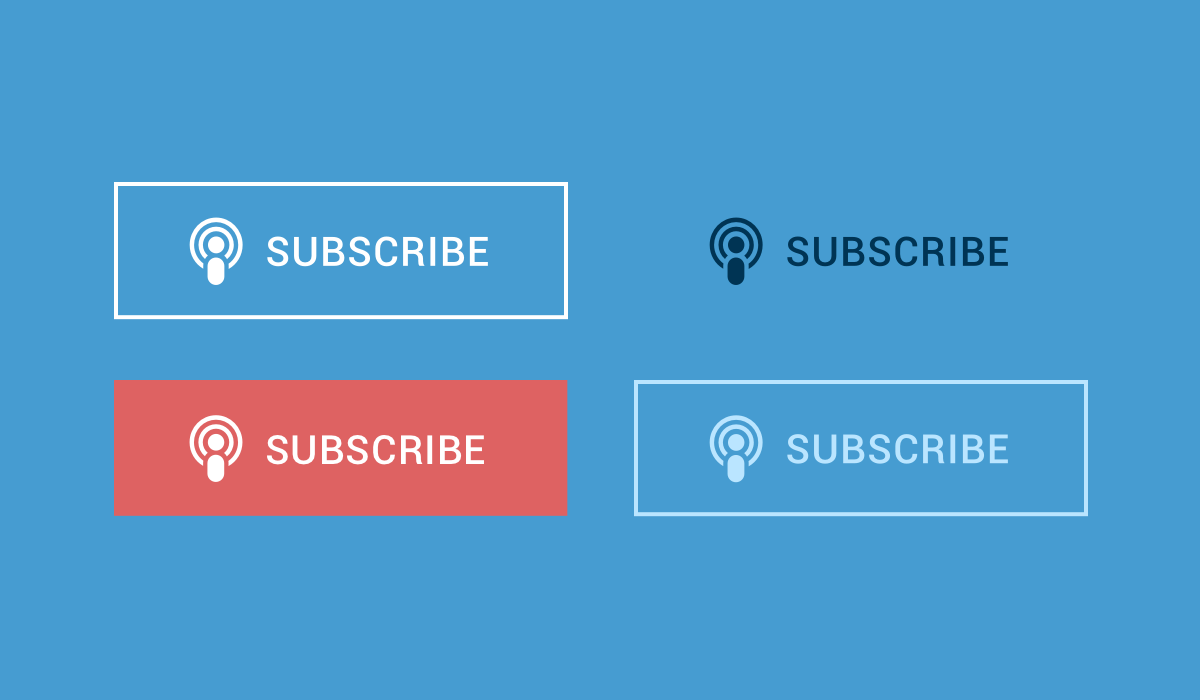
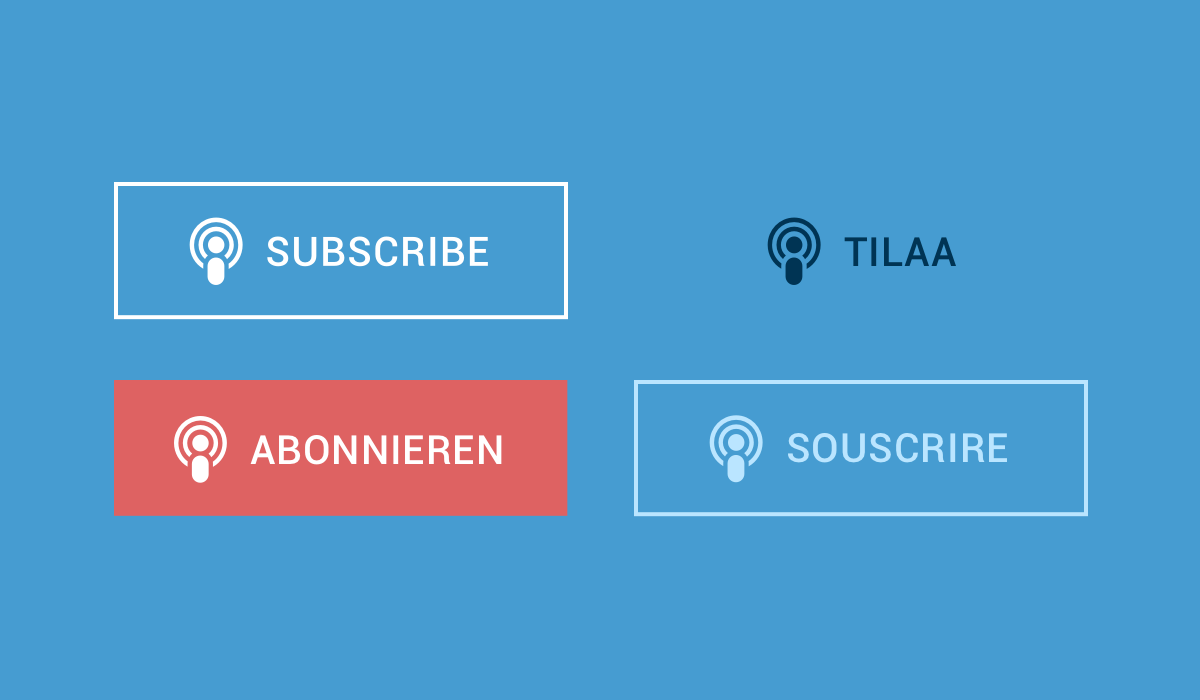
chore (hero): Add interaction symbols to the gif
- Change hero gif.

diff --git a/index.html b/index.html
@@ -1,3 +1,3 @@
 <!doctype html><html class="no-js" lang=""><head><meta charset="utf-8"><meta name="description" content=""><meta name="viewport" content="width=device-width,initial-scale=1"><title>PODLOVE_SUBSCRIBE_BUTTON_PAGE</title><link rel="apple-touch-icon" href="apple-touch-icon.png"><!-- Place favicon.ico in the root directory --><link rel="stylesheet" href="styles/main.css"><script src="scripts/vendor/modernizr.js"></script></head><body><!--[if lt IE 10]>
       <p class="browserupgrade">You are using an <strong>outdated</strong> browser. Please <a href="http://browsehappy.com/">upgrade your browser</a> to improve your experience.</p>
-    <![endif]--><section class="hero"><div class="hero__content"><div class="hero__device-wrapper"><div class="hero__device"><div class="hero__device__inner hero__device__container"></div><div class="hero__device__inner hero__device__gif"></div></div></div><div class="hero__text-wrapper"><div class="hero__text"><h1 class="headline headline--2 hero__headline">PODLOVE SUBSCRIBE BUTTON</h1><h2 class="hero__teaser">A universal and easy-to-use button, to subscribe to podcasts<br>with player clients or website players.</h2><a href="" class="btn btn--light hero__btn">Download at GitHub</a></div></div></div></section><section class="benefits"><ul class="benefits__list"><li class="benefits__list__item"><h2 class="benefits__headline headline headline--5">Your podcast:<br>easy to access.</h2><p class="benefits__copy">Automatic downloads make podcast content easy to access and flexible to use. With them you create an <span class="typo-bold">important bond between your podcast and your audience</span>.</p></li><li class="benefits__list__item"><h2 class="benefits__headline headline headline--5">Selecting your podcast feed: a no-brainer</h2><p class="benefits__copy">The PODLOVE SUBSCRIBE BUTTON makes selecting your podcast feed and passing it along to <span class="typo-bold">your listener's favourite podcast app</span> incredible simple.</p></li><li class="benefits__list__item"><h2 class="benefits__headline headline headline--5">Subscribing to your podcast in just 2 steps</h2><p class="benefits__copy"><span class="typo-bold">More and happier listeners:</span> To subscribe, your audience just clicks the PODLOVE SUBSCRIBE BUTTON, selects an app and there is (usually) no step three.</p></li></ul></section><section class="features"><h2 class="headline headline--2">One button to subscribe them all</h2><ul class="features__list"><li class="features__list__item"><figure class="features__figure"><img class="features__figure__image" src="images/screenshot_1.png" alt=""><figcaption class="features__figure__caption">Several integrated clients</figcaption></figure></li><li class="features__list__item"><figure class="features__figure"><img class="features__figure__image" src="images/artboard_1.png" alt=""><figcaption class="features__figure__caption">Smart color config</figcaption></figure></li><li class="features__list__item"><figure class="features__figure"><img class="features__figure__image" src="images/artboard_2.png" alt=""><figcaption class="features__figure__caption">Multiple styles: outline, filled, frameless</figcaption></figure></li><li class="features__list__item"><figure class="features__figure"><img class="features__figure__image" src="images/screenshot_4.png" alt=""><figcaption class="features__figure__caption">Integrate your a cover and use your own button</figcaption></figure></li><li class="features__list__item"><figure class="features__figure"><img class="features__figure__image" src="images/screenshot_3.png" alt=""><figcaption class="features__figure__caption">Multiple sizes: small, medium, big</figcaption></figure></li><li class="features__list__item"><figure class="features__figure"><img class="features__figure__image" src="images/artboard_3.png" alt=""><figcaption class="features__figure__caption">Multiple formats: standard, cube, auto-width</figcaption></figure></li><li class="features__list__item"><figure class="features__figure"><img class="features__figure__image" src="images/artboard_4.png" alt=""><figcaption class="features__figure__caption">Easy configuration</figcaption></figure></li><li class="features__list__item"><figure class="features__figure"><img class="features__figure__image" src="images/screenshot_2.png" alt=""><figcaption class="features__figure__caption">Works on desktop, mobile or in the cloud</figcaption></figure></li></ul></section><section class="cta"><div class="cta__wrapper"><h2 class="headline headline--2 cta__headline">Give it a try, it’s free!</h2><a href="" class="btn btn--light cta__btn">Download at GitHub</a></div></section><section class="live"><h2 class="headline headline--2">Test it!</h2><div class="live__container"><div class="live__input"><p class="live__label">Size:</p><form><input type="radio" name="size" value="small"> Small<br><input type="radio" name="size" value="medium"> Medium<br><input type="radio" name="size" value="big" checked="checked"> Big</form></div><div class="live__input"><p class="live__label">Format:</p><form><input type="radio" name="format" value="rectangle"> Rectangle<br><input type="radio" name="format" value="square"> Square<br><input type="radio" name="format" value="cover" checked="checked"> Cover</form></div><div class="live__input"><p class="live__label">Style:</p><form><input type="radio" name="style" value="filled" checked="checked"> Filled<br><input type="radio" name="style" value="outline"> Outline<br><input type="radio" name="style" value="frameless"> Frameless</form></div><div class="live__input"><p class="live__label live__label--small-bottom">Color:</p><form><input type="color" name="color" id="color" value="#469cd1"></form><p class="live__label live__label--small-bottom live__label--big-top">Language:</p><form><select class="live__select" name="language" id="language"><!--<option class="live__select__option" value="zh">Chinese</option>--><option class="live__select__option" value="nl">Dutch</option><option class="live__select__option" value="en" selected="selected">English</option><option class="live__select__option" value="eo">Esperanto</option><option class="live__select__option" value="de">German</option><option class="live__select__option" value="fi">Finnish</option><option class="live__select__option" value="fr">French</option><!--<option class="live__select__option" value="ja">Japanese</option>--></select></form></div><div id="live-button" class="live__button"></div></div></section><section class="ressources"><div class="ressources__wrapper"><h2 class="headline headline--4 ressources__headline">Links and Support</h2><p class="ressources__copy">A project of the Podlove initiative</p><div class="ressources__links"><div class="ressources__container"><ul class="ressources__list"><li class="ressources__list__item"><a href="https://github.com/podlove/podlove-subscribe-button">PODLOVE SUBSCRIBE BUTTON Code on GitHub</a></li><li class="ressources__list__item"><a href="http://podlove.org/podlove-subscribe-button/">Detailed Feature Description on metaebene.de</a></li><li class="ressources__list__item"><a href="https://wordpress.org/plugins/podlove-subscribe-button/">PODLOVE SUBSCRIBE BUTTON WordPress Plugin</a></li></ul></div><div class="ressources__container"><ul class="ressources__list"><li class="ressources__list__item"><a href="https://github.com/podlove/podlove-subscribe-button/issues">Report bugs and request features on GitHub</a></li><li class="ressources__list__item"><a href="https://github.com/podlove/podlove-subscribe-button#usage">Documentation on GitHub</a></li><li class="ressources__list__item"><a href="https://podlove.oneskyapp.com/collaboration/project?id=14564">Help us translate the button</a></li></ul></div></div></div></section><script src="scripts/vendor.js"></script><script src="scripts/main.js"></script></body></html>
+    <![endif]--><section class="hero"><div class="hero__content"><div class="hero__device-wrapper"><div class="hero__device"><div class="hero__device__inner hero__device__container"></div><div class="hero__device__inner hero__device__gif"></div></div></div><div class="hero__text-wrapper"><div class="hero__text"><h1 class="headline headline--2 hero__headline">PODLOVE SUBSCRIBE BUTTON</h1><h2 class="hero__teaser">A universal and easy-to-use button, to subscribe to podcasts<br>with player clients or website players.</h2><a href="" class="btn btn--light hero__btn">Download at GitHub</a></div></div></div></section><section class="benefits"><ul class="benefits__list"><li class="benefits__list__item"><h2 class="benefits__headline headline headline--5">Your podcast:<br>easy to access.</h2><p class="benefits__copy">Automatic downloads make podcast content easy to access and flexible to use. With them you create an <span class="typo-bold">important bond between your podcast and your audience</span>.</p></li><li class="benefits__list__item"><h2 class="benefits__headline headline headline--5">Selecting your podcast feed: a no-brainer</h2><p class="benefits__copy">The PODLOVE SUBSCRIBE BUTTON makes selecting your podcast feed and passing it along to <span class="typo-bold">your listener's favourite podcast app</span> incredible simple.</p></li><li class="benefits__list__item"><h2 class="benefits__headline headline headline--5">Subscribing to your podcast in just 2 steps</h2><p class="benefits__copy"><span class="typo-bold">More and happier listeners:</span> To subscribe, your audience just clicks the PODLOVE SUBSCRIBE BUTTON, selects an app and there is (usually) no step three.</p></li></ul></section><section class="features"><h2 class="headline headline--2">One button to subscribe them all</h2><ul class="features__list"><li class="features__list__item"><figure class="features__figure"><img class="features__figure__image" src="images/screenshot_1.png" alt=""><figcaption class="features__figure__caption">Several integrated clients</figcaption></figure></li><li class="features__list__item"><figure class="features__figure"><img class="features__figure__image" src="images/artboard_1.png" alt=""><figcaption class="features__figure__caption">Smart color config</figcaption></figure></li><li class="features__list__item"><figure class="features__figure"><img class="features__figure__image" src="images/artboard_2.png" alt=""><figcaption class="features__figure__caption">Multiple languages and styles: outline, filled, frameless</figcaption></figure></li><li class="features__list__item"><figure class="features__figure"><img class="features__figure__image" src="images/screenshot_4.png" alt=""><figcaption class="features__figure__caption">Integrate your a cover and use your own button</figcaption></figure></li><li class="features__list__item"><figure class="features__figure"><img class="features__figure__image" src="images/screenshot_3.png" alt=""><figcaption class="features__figure__caption">Multiple sizes: small, medium, big</figcaption></figure></li><li class="features__list__item"><figure class="features__figure"><img class="features__figure__image" src="images/artboard_3.png" alt=""><figcaption class="features__figure__caption">Multiple formats: standard, cube, auto-width</figcaption></figure></li><li class="features__list__item"><figure class="features__figure"><img class="features__figure__image" src="images/artboard_4.png" alt=""><figcaption class="features__figure__caption">Easy configuration</figcaption></figure></li><li class="features__list__item"><figure class="features__figure"><img class="features__figure__image" src="images/screenshot_2.png" alt=""><figcaption class="features__figure__caption">Works on desktop, mobile or in the cloud</figcaption></figure></li></ul></section><section class="cta"><div class="cta__wrapper"><h2 class="headline headline--2 cta__headline">Give it a try, it’s free!</h2><a href="" class="btn btn--light cta__btn">Download at GitHub</a></div></section><section class="live"><h2 class="headline headline--2">Test it!</h2><div class="live__container"><div class="live__input"><p class="live__label">Size:</p><form><input type="radio" name="size" value="small"> Small<br><input type="radio" name="size" value="medium"> Medium<br><input type="radio" name="size" value="big" checked="checked"> Big</form></div><div class="live__input"><p class="live__label">Format:</p><form><input type="radio" name="format" value="rectangle"> Rectangle<br><input type="radio" name="format" value="square"> Square<br><input type="radio" name="format" value="cover" checked="checked"> Cover</form></div><div class="live__input"><p class="live__label">Style:</p><form><input type="radio" name="style" value="filled" checked="checked"> Filled<br><input type="radio" name="style" value="outline"> Outline<br><input type="radio" name="style" value="frameless"> Frameless</form></div><div class="live__input"><p class="live__label live__label--small-bottom">Color:</p><form><input type="color" name="color" id="color" value="#469cd1"></form><p class="live__label live__label--small-bottom live__label--big-top">Language:</p><form><select class="live__select" name="language" id="language"><!--<option class="live__select__option" value="zh">Chinese</option>--><option class="live__select__option" value="nl">Dutch</option><option class="live__select__option" value="en" selected="selected">English</option><option class="live__select__option" value="eo">Esperanto</option><option class="live__select__option" value="de">German</option><option class="live__select__option" value="fi">Finnish</option><option class="live__select__option" value="fr">French</option><!--<option class="live__select__option" value="ja">Japanese</option>--></select></form></div><div id="live-button" class="live__button"></div></div></section><section class="ressources"><div class="ressources__wrapper"><h2 class="headline headline--4 ressources__headline">Links and Support</h2><p class="ressources__copy">A project of the Podlove initiative</p><div class="ressources__links"><div class="ressources__container"><ul class="ressources__list"><li class="ressources__list__item"><a href="https://github.com/podlove/podlove-subscribe-button">PODLOVE SUBSCRIBE BUTTON Code on GitHub</a></li><li class="ressources__list__item"><a href="http://podlove.org/podlove-subscribe-button/">Detailed Feature Description on metaebene.de</a></li><li class="ressources__list__item"><a href="https://wordpress.org/plugins/podlove-subscribe-button/">PODLOVE SUBSCRIBE BUTTON WordPress Plugin</a></li></ul></div><div class="ressources__container"><ul class="ressources__list"><li class="ressources__list__item"><a href="https://github.com/podlove/podlove-subscribe-button/issues">Report bugs and request features on GitHub</a></li><li class="ressources__list__item"><a href="https://github.com/podlove/podlove-subscribe-button#usage">Documentation on GitHub</a></li><li class="ressources__list__item"><a href="https://podlove.oneskyapp.com/collaboration/project?id=14564">Help us translate the button</a></li></ul></div></div></div></section><script src="scripts/vendor.js"></script><script src="scripts/main.js"></script></body></html>
